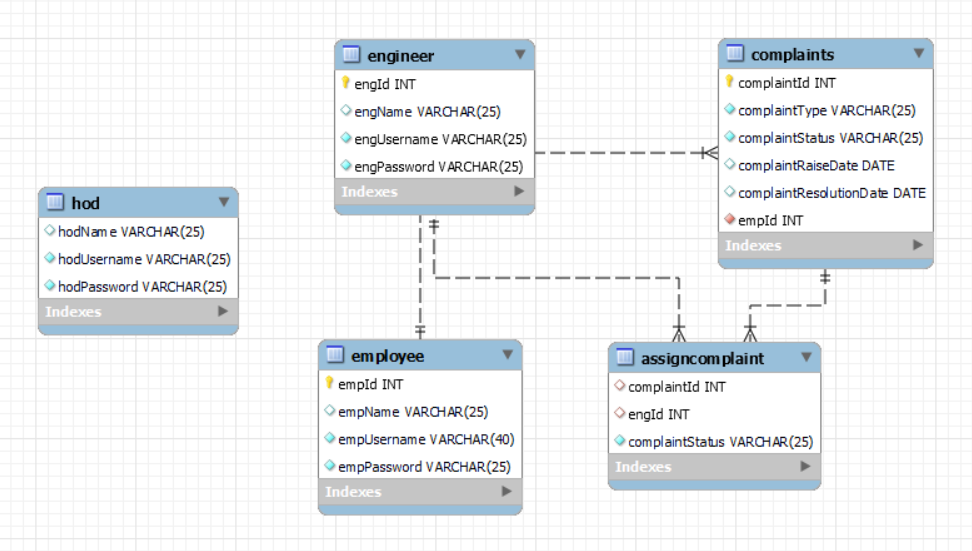
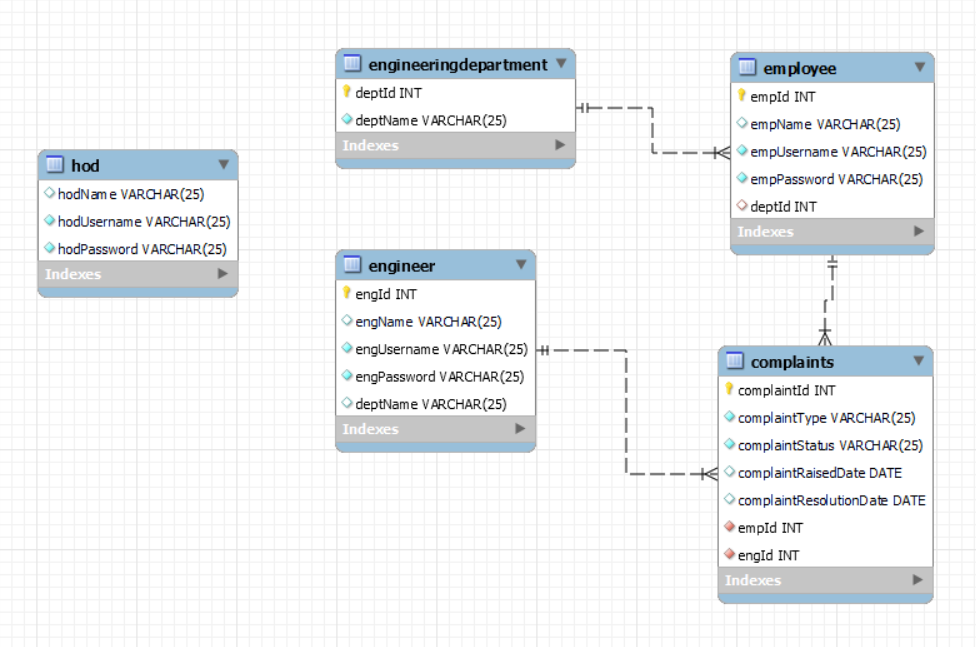
some modifications

diff --git a/README.md b/README.md
@@ -53,11 +53,18 @@ create table <b>HOD</b>(
 );
 </pre>
 <pre>
+create table <b>EngineeringDepartment</b>(
+    deptId int primary key auto_increment,
+    deptName varchar(25) not null
+);
+</pre>
+<pre>
 create table <b>Engineer</b>(
     engId int primary key auto_increment,
     engName varchar(25),
     engUsername varchar(25) unique not null,
-    engPassword varchar(25) not null
+    engPassword varchar(25) not null,
+    deptName varchar(25)
 );
 </pre>
 <pre>
@@ -65,7 +72,9 @@ create table <b>Employee</b>(
     empId int primary key auto_increment,
     empName varchar(25),
     empUsername varchar(25) unique not null,
-    empPassword varchar(25) not null
+    empPassword varchar(25) not null,
+    deptId int,
+    foreign key (deptId) references EngineeringDepartment(deptId) on update cascade on delete cascade
 );
 </pre>
 <pre>
@@ -73,18 +82,11 @@ create table <b>Complaints</b>(
     complaintId int primary key auto_increment,
     complaintType varchar(25) not null,
     complaintStatus varchar(25) not null,
-    complaintRaiseDate date,
+    complaintRaisedDate date,
     complaintResolutionDate date,
     empId int not null,
-    foreign key (empId) references Employee(empId) on update cascade on delete cascade
-);
-</pre>
-<pre>
-create table <b>AssignComplaint</b>(
-    complaintId int,
-    engId int,
-    complaintStatus varchar(25) not null,
-    foreign key (complaintId) references Complaints(complaintId) on update cascade on delete cascade,
+    engId int not null,
+    foreign key (empId) references Employee(empId) on update cascade on delete cascade,
     foreign key (engId) references Engineer(engId) on update cascade on delete cascade
 );
 </pre>
@@ -92,7 +94,7 @@ create table <b>AssignComplaint</b>(
 # DESCRIBE (DESC) TABLES
 
 <b># DESC HOD</b>
----------------
+-----------------
 <pre>
 +-------------+-------------+------+-----+---------+-------+
 | Field       | Type        | Null | Key | Default | Extra |
@@ -102,8 +104,18 @@ create table <b>AssignComplaint</b>(
 | hodPassword | varchar(25) | NO   |     | NULL    |       |
 +-------------+-------------+------+-----+---------+-------+
 </pre>
+<b># DESC ENGINEERINGDEPARTMENT</b>
+-----------------------------------
+<pre>
++----------+-------------+------+-----+---------+----------------+
+| Field    | Type        | Null | Key | Default | Extra          |
++----------+-------------+------+-----+---------+----------------+
+| deptId   | int         | NO   | PRI | NULL    | auto_increment |
+| deptName | varchar(25) | NO   |     | NULL    |                |
++----------+-------------+------+-----+---------+----------------+
+</pre>
 <b># DESC ENGINEER</b>
----------------
+----------------------
 <pre>
 +-------------+-------------+------+-----+---------+----------------+
 | Field       | Type        | Null | Key | Default | Extra          |
@@ -112,10 +124,11 @@ create table <b>AssignComplaint</b>(
 | engName     | varchar(25) | YES  |     | NULL    |                |
 | engUsername | varchar(25) | NO   | UNI | NULL    |                |
 | engPassword | varchar(25) | NO   |     | NULL    |                |
+| deptName    | varchar(25) | YES  |     | NULL    |                |
 +-------------+-------------+------+-----+---------+----------------+
 </pre>
 <b># DESC EMPLOYEE</b>
----------------
+----------------------
 <pre>
 +-------------+-------------+------+-----+---------+----------------+
 | Field       | Type        | Null | Key | Default | Extra          |
@@ -124,10 +137,11 @@ create table <b>AssignComplaint</b>(
 | empName     | varchar(25) | YES  |     | NULL    |                |
 | empUsername | varchar(25) | NO   | UNI | NULL    |                |
 | empPassword | varchar(25) | NO   |     | NULL    |                |
+| deptId      | int         | YES  | MUL | NULL    |                |
 +-------------+-------------+------+-----+---------+----------------+
 </pre>
 <b># DESC COMPLAINTS</b>
----------------
+------------------------
 <pre>
 +-------------------------+-------------+------+-----+---------+----------------+
 | Field                   | Type        | Null | Key | Default | Extra          |
@@ -135,22 +149,13 @@ create table <b>AssignComplaint</b>(
 | complaintId             | int         | NO   | PRI | NULL    | auto_increment |
 | complaintType           | varchar(25) | NO   |     | NULL    |                |
 | complaintStatus         | varchar(25) | NO   |     | NULL    |                |
-| complaintRaiseDate      | date        | YES  |     | NULL    |                |
+| complaintRaisedDate     | date        | YES  |     | NULL    |                |
 | complaintResolutionDate | date        | YES  |     | NULL    |                |
 | empId                   | int         | NO   | MUL | NULL    |                |
+| engId                   | int         | NO   | MUL | NULL    |                |
 +-------------------------+-------------+------+-----+---------+----------------+
 </pre>
-<b># DESC ASSIGNCOMPLAINT</b>
----------------
-<pre>
-+-----------------+-------------+------+-----+---------+-------+
-| Field           | Type        | Null | Key | Default | Extra |
-+-----------------+-------------+------+-----+---------+-------+
-| complaintId     | int         | YES  | MUL | NULL    |       |
-| engId           | int         | YES  | MUL | NULL    |       |
-| complaintStatus | varchar(25) | NO   |     | NULL    |       |
-+-----------------+-------------+------+-----+---------+-------+
-</pre>
+
 **Teck Stack :** Core Java, JDBC, SQL.
 <br>
 
